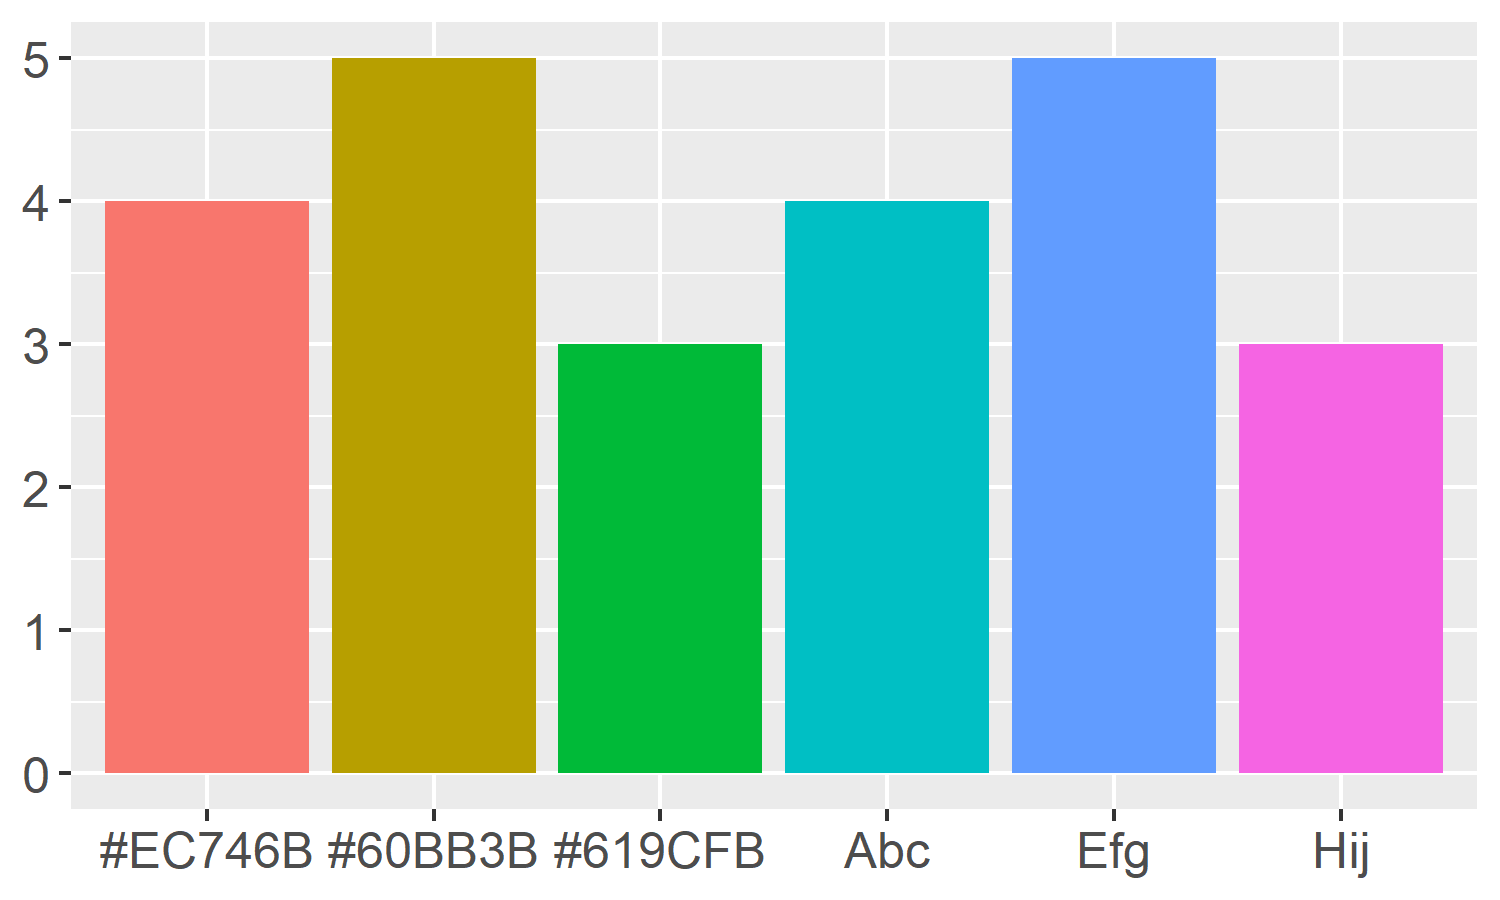
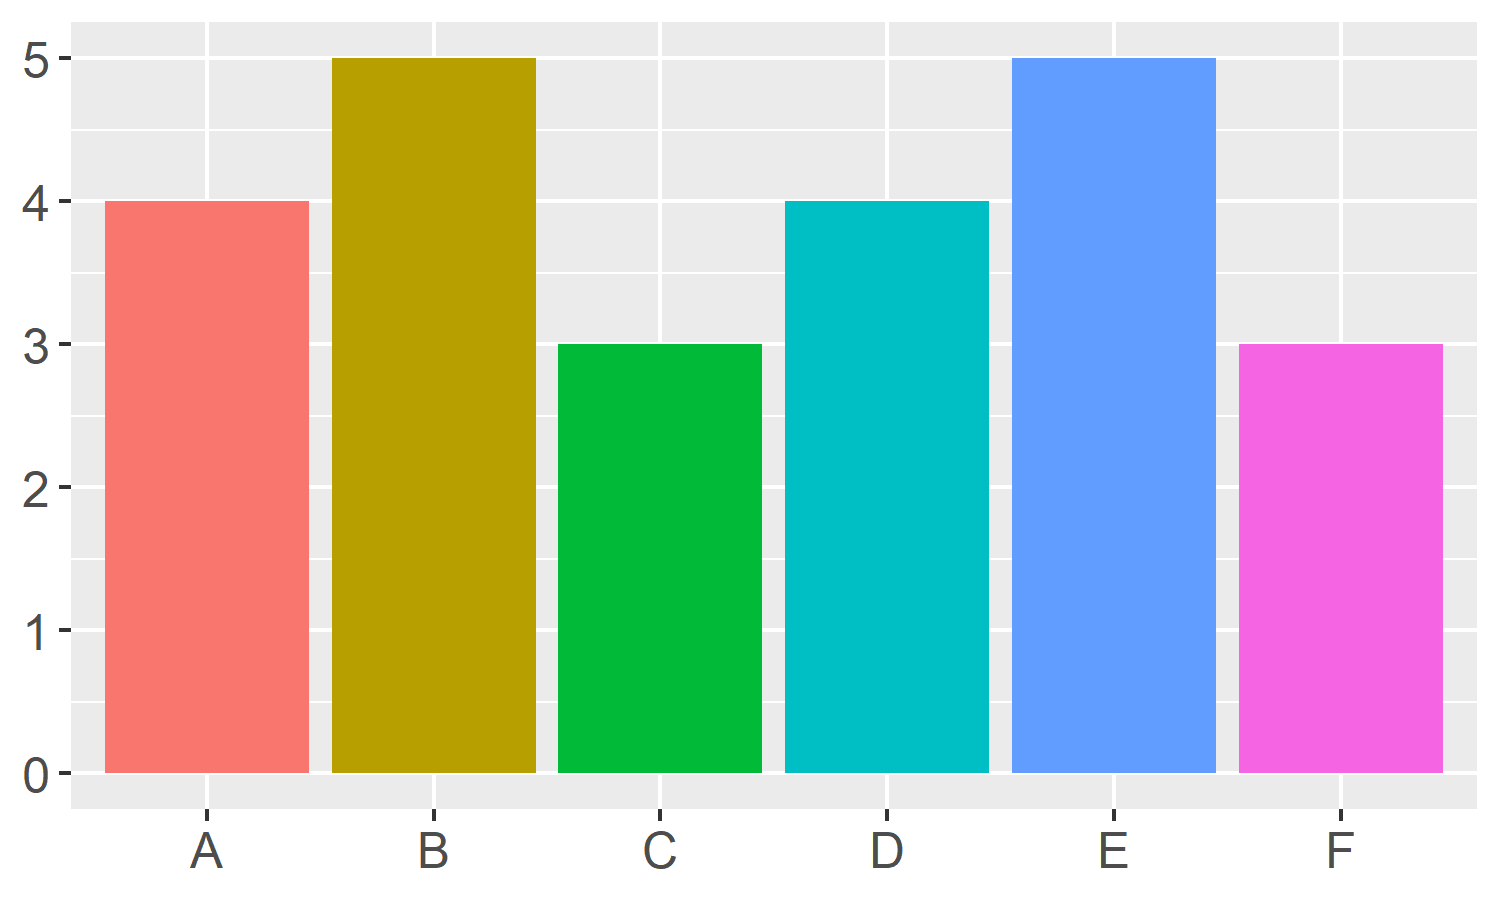
Started fixing the whole page.

diff --git a/README.md b/README.md
@@ -9,29 +9,13 @@ Here is a collection of color palettes that I like to use.
 ggplot2 (R programming language)
 --------------------------------
 
-### Triadic Colors
+### Contrasting Color Palettes
 
-One of the most common triadic color schemes for statstical plots is the
-base color palette from R’s ggplot2 package. The standard discrete color
-palette for three colors produced through ggplot2 is the following:
+One of the most common color schemes for statstical plots is the base
+color palette from R’s ggplot2 package. The standard discrete color
+palettes for ggplot2 and some variations are as follows:
 
-(\#EC746B, \#60BB3B, \#619CFB)
-
-<img src="ggplotStandard3.png" width=500 height=300/>
-
-### Four plus colors
-
-ggplot2 has additional discrete palettes of contrasting colors.
-
-Four colors:
-
-<img src="ggplotStandard4.png" width=500 height=300/>
-
-Five colors:
-
-<img src="ggplotStandard5.png" width=500 height=300/>
-
-Six colors:
+colors:
 
 <img src="ggplotStandard6.png" width=500 height=300/>
 
